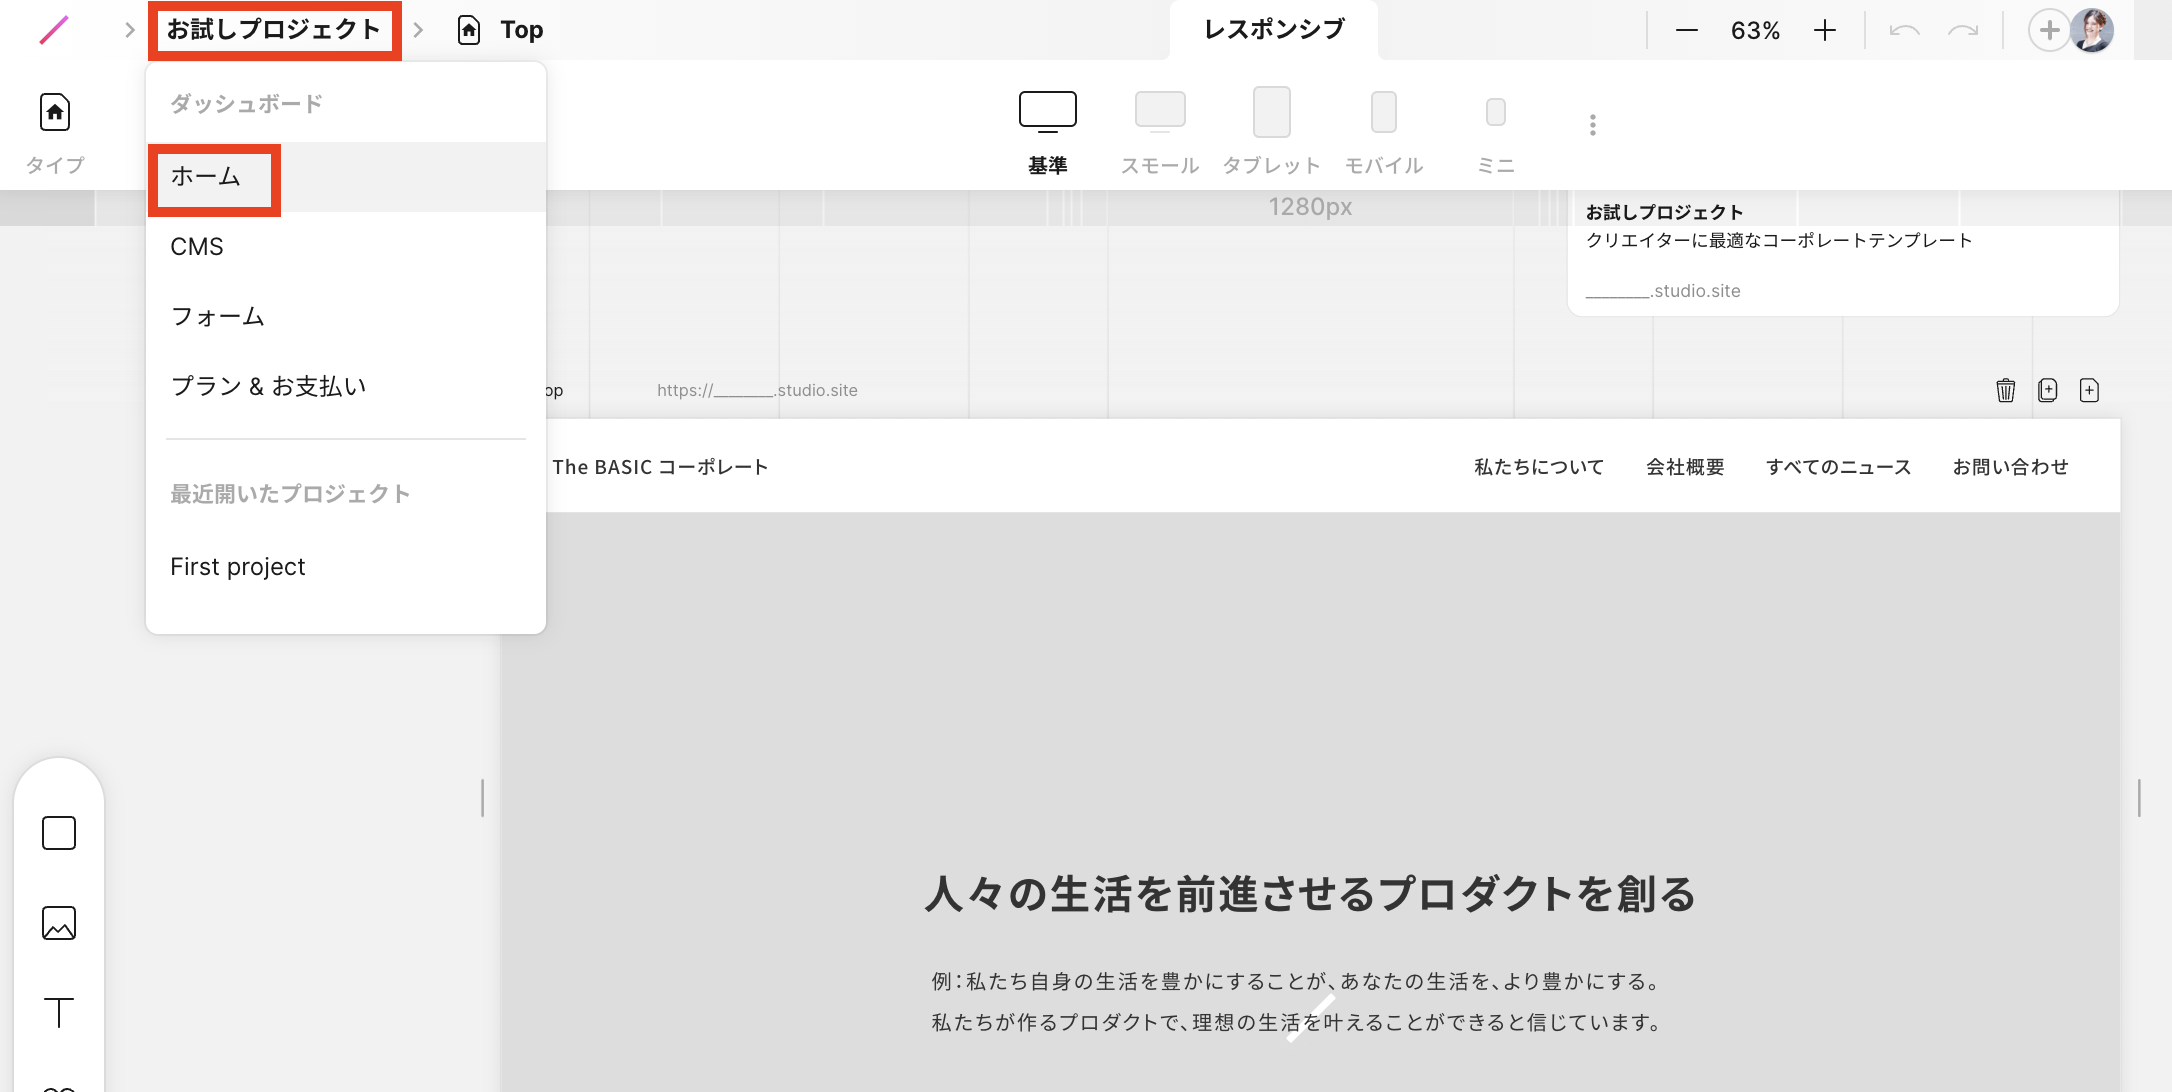
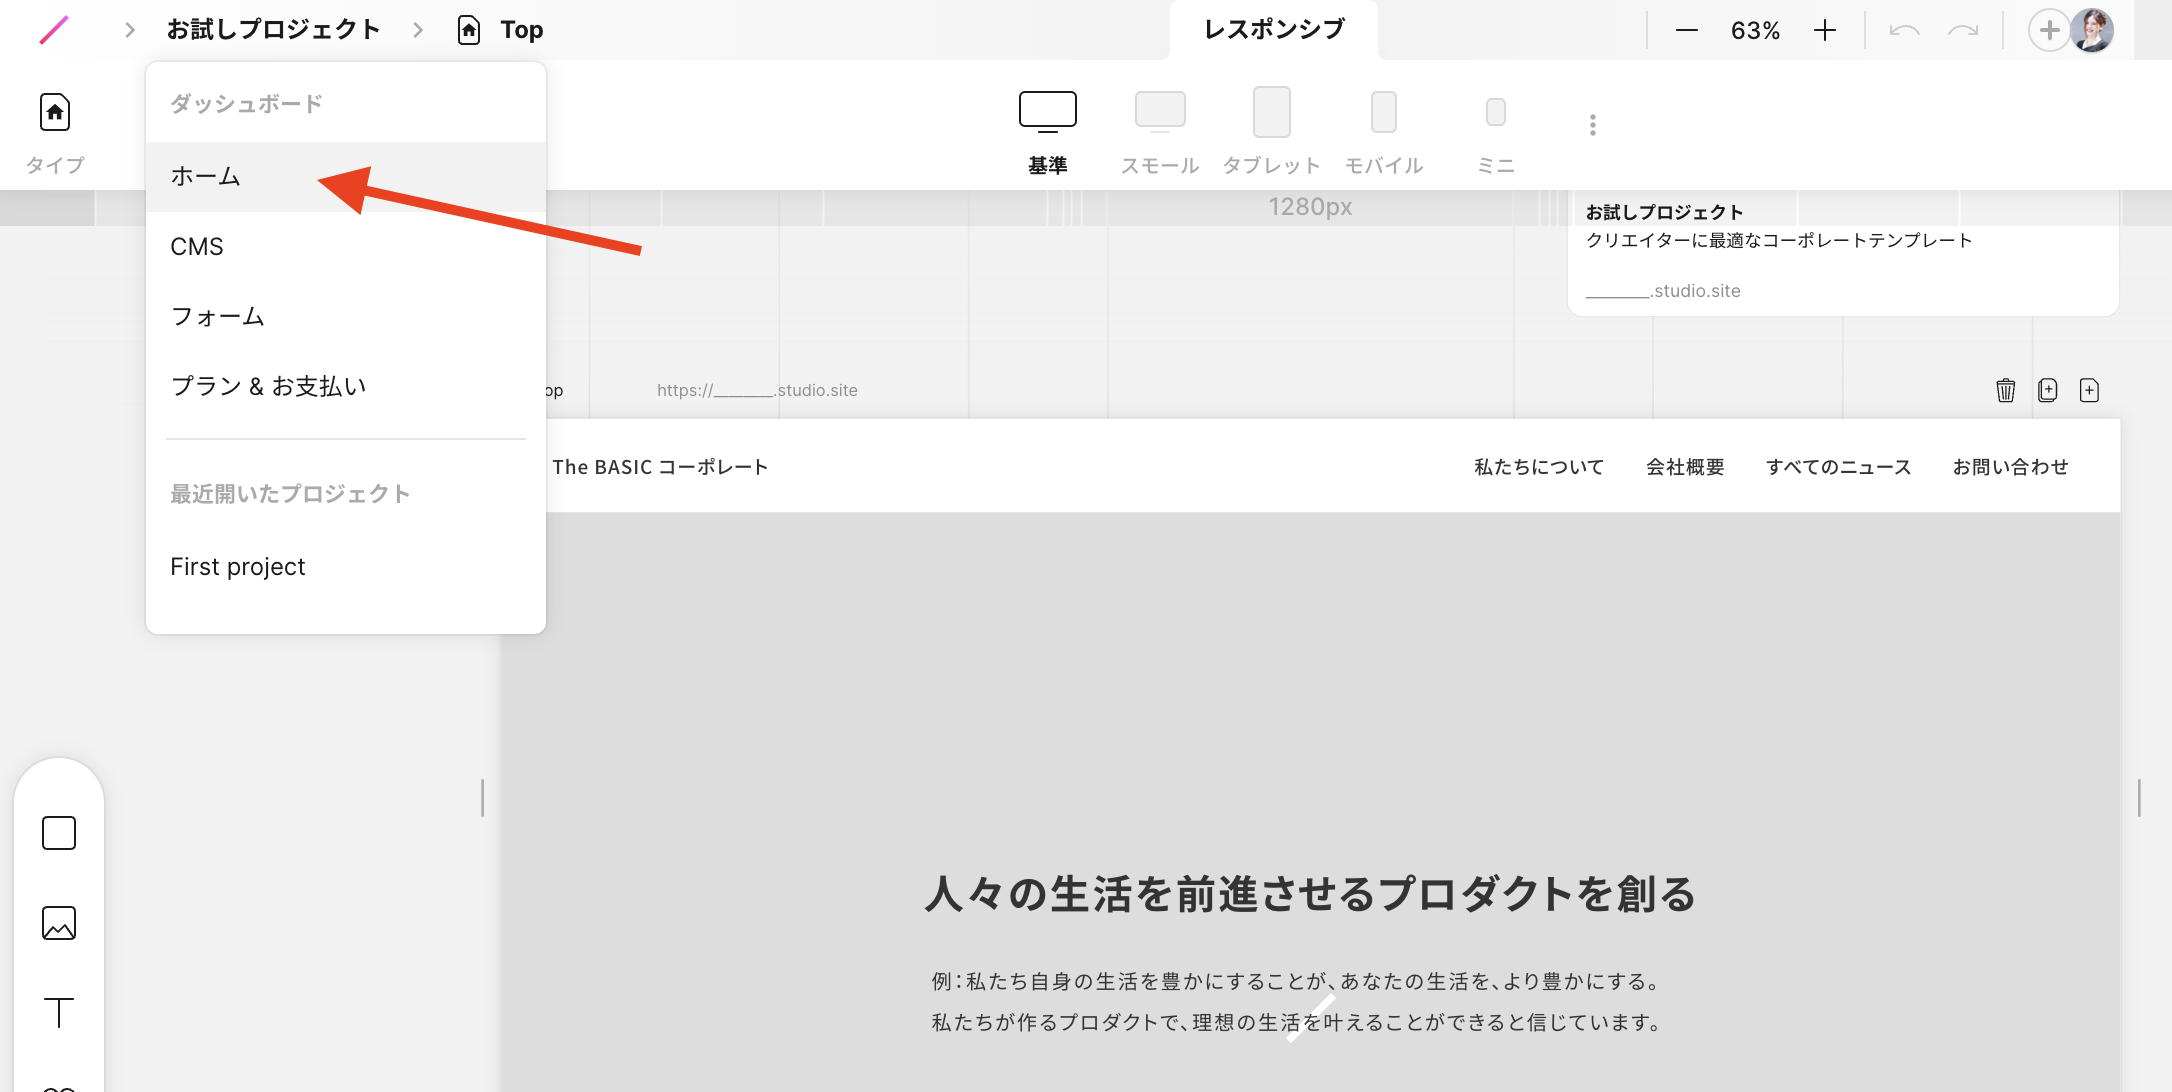
デザインエディタに関する説明を追記

Changed region(s): [[0.0617, 0.1245, 0.3085, 0.2491], [0.0617, 0.0, 0.1851, 0.0623]]

diff --git a/books/studio-first-step/design-editor.md b/books/studio-first-step/design-editor.md
@@ -1,0 +1,5 @@
+---
+title: "デザインエディタを見てみよう"
+---
+
+## デザインエディタ
